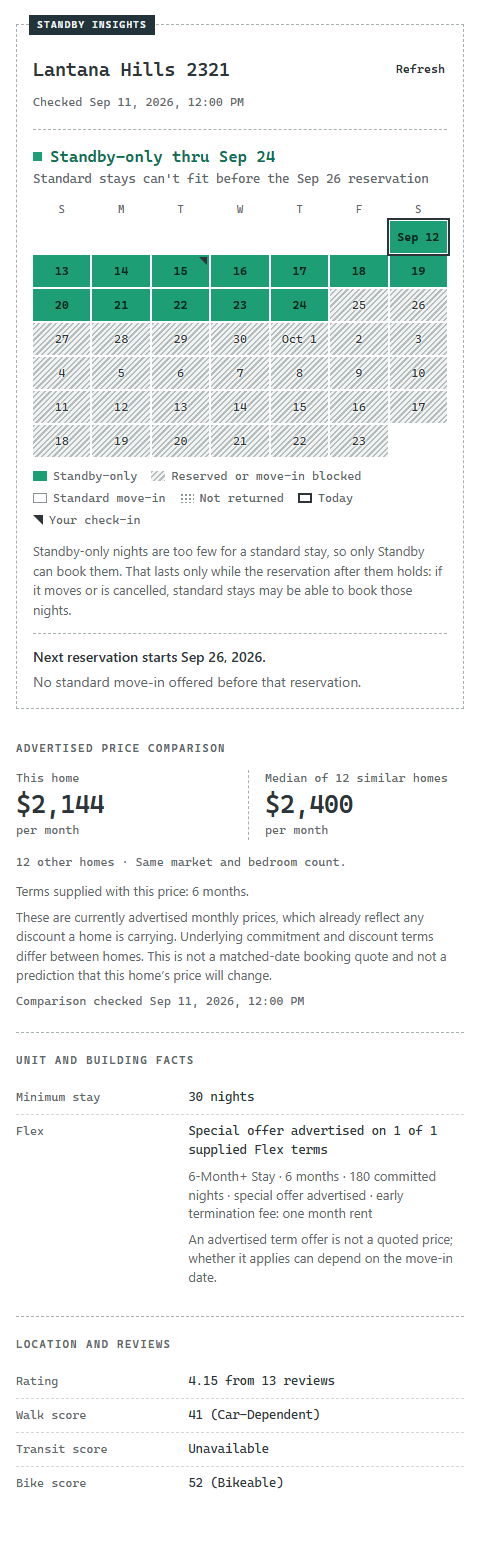
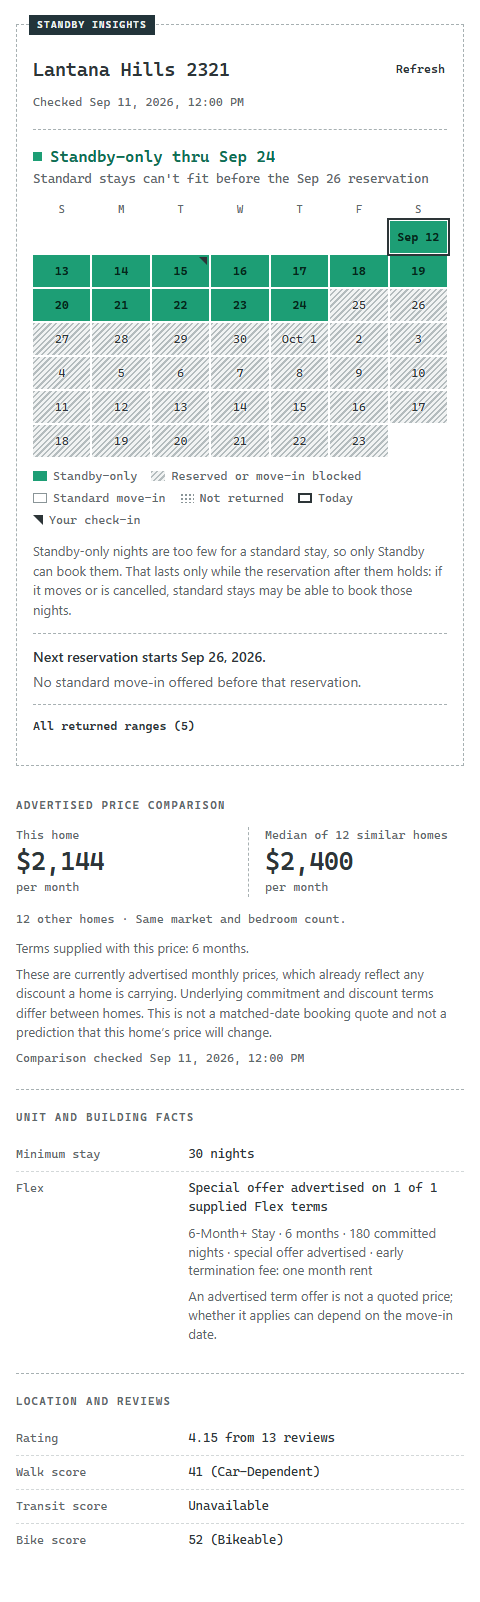
Restore every returned range and fix thin panel failure states
- Collapsed "All returned ranges (N)" list reaches ranges past six weeks
- Header states failed or unconfirmed checks instead of "Not checked yet"
- Calendar section hidden when empty; loading says the calendar is checking
- "Calendar unavailable" names Refresh as the next step
- Price disclosure only beside shown prices
- Refresh outcome announced only after a member-initiated Refresh

Closes #26

diff --git a/test/panel-render.test.js b/test/panel-render.test.js
@@ -18,9 +18,56 @@ test('mismatched or ambiguous identity attaches no unit-specific claim, includin
   }
 });
 
-test('unavailable calendar: labeled unavailable, not an empty result', () => {
+test('unavailable calendar: labeled unavailable, not an empty result, with Refresh as the next step', () => {
   const view = describeState({ status: 'unavailable', identity: 'confirmed', unitName: null, ranges: null, checkedAt: 1000, isChecking: false, isStale: false, error: null });
-  assert.equal(view.calendarStatusText, 'Calendar unavailable');
+  assert.match(view.calendarStatusText, /^Calendar unavailable\. .*Refresh/);
+  assert.equal(view.calendarVisible, true);
+});
+
+test('a failed first check says it failed, not that nothing was checked', () => {
+  const view = describeState({ status: 'unavailable', identity: null, unitName: null, ranges: null, checkedAt: null, isChecking: false, isStale: false, error: 'GateTimeoutError' });
+  assert.doesNotMatch(view.checkTimeText, /not checked yet/i);
+  assert.match(view.checkTimeText, /failed/i);
+});
+
+test('a mismatched check says the unit could not be confirmed, and renders no calendar section', () => {
+  for (const checkedAt of [null, 1000]) {
+    const view = describeState({ status: 'mismatch', identity: 'mismatch', unitName: null, ranges: null, checkedAt, isChecking: false, isStale: false, error: null });
+    assert.doesNotMatch(view.checkTimeText, /not checked yet/i);
+    assert.equal(view.calendarVisible, false);
+  }
+});
+
+test('loading says the calendar is being checked', () => {
+  const view = describeState({ status: 'idle', identity: null, unitName: null, ranges: null, checkedAt: null, isChecking: true, isStale: false, error: null });
+  assert.match(view.calendarStatusText, /checking the calendar/i);
+  assert.equal(view.calendarVisible, true);
+  assert.equal(describeState({ status: 'idle', checkedAt: null }).calendarVisible, false, 'no calendar section before any check');
+});
+
+test('every returned range is listed chronologically with full dates and status words, including past the six weeks', () => {
+  const view = describeState({
+    status: 'ready', identity: 'confirmed', checkedAt: 1000, today: '2026-09-12', referenceDate: '2026-09-12', checkIn: { status: 'none', date: null },
+    ranges: [
+      { startDate: '2027-01-10', endDate: null, moveInAllowed: true, isReservation: false, unbookableReason: null },
+      { startDate: '2026-09-12', endDate: '2026-09-24', moveInAllowed: false, isReservation: false, unbookableReason: 'less_than_minimum_nightly_stay' },
+      { startDate: '2026-09-25', endDate: '2027-01-09', moveInAllowed: false, isReservation: true, unbookableReason: 'reserved' },
+    ],
+  });
+  assert.deepEqual(view.allRanges, [
+    'Sep 12, 2026 – Sep 24, 2026: Standby-only: too short for a standard stay',
+    'Sep 25, 2026 – Jan 9, 2027: Reservation',
+    'Jan 10, 2027 – unspecified end: Move-in allowed',
+  ]);
+  assert.deepEqual(describeState({ status: 'unavailable', checkedAt: 1000 }).allRanges, []);
+});
+
+test('the price disclosure shows only beside shown prices', () => {
+  const comparison = { status: 'ready', median: 2400, count: 12, checkedAt: 1000, subjectPrice: { amount: 2144, label: 'per month', terms: [], note: null } };
+  assert.match(describeState({ checkedAt: null, comparison }).comparison.disclosure, /not a prediction/);
+  for (const status of ['unavailable', 'insufficient']) {
+    assert.equal(describeState({ checkedAt: null, comparison: { ...comparison, status } }).comparison.disclosure, '');
+  }
 });
 
 test('ready calendar: each grid day names its whole returned range on hover, including an unspecified end', () => {
@@ -147,7 +194,7 @@ test('an unusable calendar still shows the facts from the same response', () => 
     minimumStay: 30, flexOptions: null, rating: { average: 4.8, count: 6 },
     scores: { walk: null, transit: null, bike: null },
   }, { status: 'unavailable', ranges: null }));
-  assert.equal(view.calendarStatusText, 'Calendar unavailable');
+  assert.match(view.calendarStatusText, /^Calendar unavailable/);
   assert.match(factText(view, 'Minimum stay'), /30 nights/);
   assert.match(factText(view, 'Rating'), /4\.8/);
 });

diff --git a/src/panel/panel.js b/src/panel/panel.js
@@ -25,9 +25,15 @@ const standbyOnlyHeadline = document.getElementById('standby-only-headline');
 const standbyOnlyDetail = document.getElementById('standby-only-detail');
 const standbyOnlyExplainer = document.getElementById('standby-only-explainer');
 const calendarGrid = document.getElementById('calendar-grid');
+const calendarSection = document.getElementById('calendar-section');
+const allRanges = document.getElementById('all-ranges');
+const allRangesSummary = document.getElementById('all-ranges-summary');
+const allRangesList = document.getElementById('all-ranges-list');
 
 let tabId = null;
-let lastCheckedAt = null;
+// 'requested' after the member presses Refresh, 'checking' once that check
+// starts; only its completion is announced, never the panel's first state.
+let refresh = null;
 
 function factRow(item) {
   const row = document.createElement('div');
@@ -48,6 +54,15 @@ function render(state) {
   identityNote.textContent = view.identityNote;
   checkTime.textContent = view.refreshFailedNote ? `${view.checkTimeText}. ${view.refreshFailedNote}` : view.checkTimeText;
   calendarStatus.textContent = view.calendarStatusText;
+  calendarSection.hidden = !view.calendarVisible;
+
+  allRanges.hidden = view.allRanges.length === 0;
+  allRangesSummary.textContent = `All returned ranges (${view.allRanges.length})`;
+  allRangesList.replaceChildren(...view.allRanges.map((text) => {
+    const li = document.createElement('li');
+    li.textContent = text;
+    return li;
+  }));
 
   sixWeeks.hidden = view.grid === null;
   if (view.grid) {
@@ -105,9 +120,10 @@ function render(state) {
   factsList.replaceChildren(...view.factItems.slice(0, 2).map(factRow));
   locationList.replaceChildren(...view.factItems.slice(2).map(factRow));
 
-  if (state.checkedAt !== null && state.checkedAt !== lastCheckedAt && !state.isChecking) {
-    lastCheckedAt = state.checkedAt;
-    announcer.textContent = 'Refresh complete.';
+  if (state.isChecking && refresh === 'requested') refresh = 'checking';
+  if (!state.isChecking && refresh === 'checking') {
+    refresh = null;
+    announcer.textContent = state.error ? 'Refresh failed.' : 'Refresh complete.';
   }
 }
 
@@ -121,7 +137,10 @@ chrome.runtime.onMessage.addListener((message, sender) => {
 });
 
 refreshButton.addEventListener('click', () => {
-  if (tabId !== null) chrome.tabs.sendMessage(tabId, { type: 'request-refresh' });
+  if (tabId === null) return;
+  refresh = 'requested';
+  announcer.textContent = '';
+  chrome.tabs.sendMessage(tabId, { type: 'request-refresh' });
 });
 
 chrome.tabs.query({ active: true, currentWindow: true }).then(([tab]) => {

diff --git a/src/panel/render.js b/src/panel/render.js
@@ -169,7 +169,8 @@ function comparisonView(state) {
   view.termsNote = [termsText(comparison.subjectPrice), comparison.subjectPrice?.note]
     .filter((line) => line)
     .join(' ');
-  view.disclosure = COMPARISON_DISCLOSURE;
+  // The disclosure qualifies price figures, so it appears only beside them.
+  view.disclosure = view.prices.length > 0 ? COMPARISON_DISCLOSURE : '';
 
   if (comparison.checkedAt !== null) {
     view.checkTimeText = `Comparison checked ${timeFormatter.format(new Date(comparison.checkedAt))}`;
@@ -266,9 +267,11 @@ export function describeState(state) {
     identityNote: '',
     checkTimeText: 'Not checked yet',
     calendarStatusText: '',
+    calendarVisible: false,
     referenceNote: '',
     standbyOnly: null,
     grid: null,
+    allRanges: [],
     summaryItems: [],
     factItems: [],
     refreshFailedNote: null,
@@ -280,10 +283,19 @@ export function describeState(state) {
   }
 
   if (state.status === 'unavailable') {
-    view.calendarStatusText = 'Calendar unavailable';
+    view.calendarStatusText = state.isChecking
+      ? 'Calendar unavailable. Checking again…'
+      : 'Calendar unavailable. Use Refresh to check again.';
+  } else if (state.isChecking && !Array.isArray(state.ranges)) {
+    view.calendarStatusText = 'Checking the calendar…';
   }
 
   if (state.status === 'ready' && Array.isArray(state.ranges)) {
+    // The grid stops at six weeks; this list is where every returned range,
+    // and each day's detail, stays reachable by keyboard and screen reader.
+    view.allRanges = [...state.ranges]
+      .sort((a, b) => a.startDate.localeCompare(b.startDate))
+      .map(rangeText);
     view.referenceNote = referenceNoteText(state);
     if (state.summary) view.summaryItems = summaryItemsFor(state.summary);
     if (state.today && state.referenceDate) {
@@ -303,11 +315,18 @@ export function describeState(state) {
     if (state.isStale) view.checkTimeText += ' (showing an older check)';
   } else if (state.isChecking) {
     view.checkTimeText = 'Checking…';
+  } else if (state.error) {
+    view.checkTimeText = 'Check failed';
+  } else if (view.identityNote) {
+    view.checkTimeText = 'Checked, but this unit could not be confirmed';
   }
 
   if (state.isStale && state.error) {
     view.refreshFailedNote = 'The last refresh failed; showing the previous check.';
   }
+
+  view.calendarVisible = Boolean(view.calendarStatusText || view.referenceNote || view.grid
+    || view.summaryItems.length || view.allRanges.length);
 
   return view;
 }

diff --git a/src/panel/panel.css b/src/panel/panel.css
@@ -76,8 +76,6 @@ h1 { font: 600 19px/1.3 var(--mono); letter-spacing: -.01em; overflow-wrap: brea
 
 section { padding: 20px 0 22px; border-top: 1px dashed var(--outline); }
 .note section { margin-top: 16px; padding: 16px 0 0; }
-/* With its heading hidden, a calendar section with nothing to show draws no empty ruled band. */
-.note #calendar-section:not(:has(#calendar-status:not(:empty), #reference-note:not(:empty), #six-weeks:not([hidden]), #calendar-summary:not([hidden]))) { margin-top: 0; padding-top: 0; border-top: 0; }
 .note + section { margin-top: 12px; border-top: 0; }
 h2 {
   margin-bottom: 12px;
@@ -136,6 +134,20 @@ h2 {
 .summary { margin-top: 14px; padding-top: 12px; border-top: 1px dashed var(--outline); }
 #summary-list li:first-child { font-weight: 600; }
 #summary-list li + li { margin-top: 4px; color: var(--on-2); }
+
+/* Every returned range, past the grid's six weeks: a typed instruction that opens a ledger. */
+#all-ranges { margin-top: 12px; border-top: 1px dashed var(--outline); }
+#all-ranges summary {
+  display: flex;
+  align-items: center;
+  min-height: 44px;
+  color: var(--on);
+  font: 500 12px/1.3 var(--mono);
+  cursor: pointer;
+}#all-ranges summary:hover { text-decoration: underline; text-underline-offset: 3px; }
+#all-ranges summary:focus-visible { outline: 2px solid var(--on); outline-offset: 2px; }
+#all-ranges-list { margin: 0; padding: 0; list-style: none; font: 12px/1.5 var(--mono); }
+#all-ranges-list li { padding: 6px 0; border-top: 1px dashed #d3d8d9; }
 
 #comparison-prices { display: grid; grid-template-columns: repeat(2, minmax(0, 1fr)); gap: 16px; margin-bottom: 14px; }
 #comparison-prices > div { min-width: 0; }

diff --git a/test/check-in-summary.test.js b/test/check-in-summary.test.js
@@ -90,7 +90,7 @@ test('a no-reservation calendar describes the returned calendar and its finite c
 
 test('an unavailable calendar states no summary conclusions at all', async () => {
   const { view } = await loadedPanel(emptyRangesHome, { status: 'selected', date: '2026-09-15' });
-  assert.equal(view().calendarStatusText, 'Calendar unavailable');
+  assert.match(view().calendarStatusText, /^Calendar unavailable\./);
   assert.equal(view().summaryItems.length, 0);
 });
 
@@ -177,7 +177,7 @@ test('invalid, missing, and contradictory calendars state no conclusions a membe
   ];
   for (const home of invalidHomes) {
     const { view } = await loadedPanel(home, { status: 'selected', date: '2026-09-15' });
-    assert.equal(view().calendarStatusText, 'Calendar unavailable', home.slug);
+    assert.match(view().calendarStatusText, /^Calendar unavailable\./, home.slug);
     assert.equal(view().summaryItems.length, 0, home.slug);
     assert.equal(view().referenceNote, '', home.slug);
     assert.equal(view().grid, null, home.slug);

diff --git a/src/panel/panel.html b/src/panel/panel.html
@@ -17,7 +17,7 @@
         <p id="identity-note" role="status"></p>
       </header>
 
-      <section id="calendar-section" aria-labelledby="calendar-heading">
+      <section id="calendar-section" aria-labelledby="calendar-heading" hidden>
         <h2 id="calendar-heading">Calendar</h2>
         <p id="calendar-status" role="status"></p>
         <p id="reference-note"></p>
@@ -39,6 +39,10 @@
         <div id="calendar-summary" class="summary" hidden>
           <ul id="summary-list"></ul>
         </div>
+        <details id="all-ranges" hidden>
+          <summary id="all-ranges-summary">All returned ranges</summary>
+          <ol id="all-ranges-list"></ol>
+        </details>
       </section>
     </div>
 

diff --git a/test/comparison-lifecycle.test.js b/test/comparison-lifecycle.test.js
@@ -353,7 +353,7 @@ test('the comparison shows while the calendar is unusable, and loading while it 
   await tick();
   await tick();
   const view = h.view();
-  assert.equal(view.calendarStatusText, 'Calendar unavailable');
+  assert.match(view.calendarStatusText, /^Calendar unavailable\./);
   assert.match(view.comparison.statusText, /Median advertised monthly price/);
 });
 

diff --git a/DESIGN.md b/DESIGN.md
@@ -185,7 +185,7 @@ Card annotations run one step smaller: 11.5px mono body, 12px headline, 11px act
 
 A single column, max 720px, centered, padded 24px vertical and 16px horizontal. The note sits first with 22px top padding (room under the tab) and 16px sides and bottom. Inside the note, the unit header is a two-column grid (name, then Refresh pinned right at auto width) with check time and identity note spanning both columns.
 
-Sections outside the note are separated by a 1px dashed top rule with 20px above content and 22px below; the first section after the note sits 12px down with no rule, since the note's own outline already separates it. Inside the note the calendar section takes a dashed rule with 16px margin and padding. The calendar heading is visually hidden (it remains the section's accessible name); the standby-only headline leads. When the calendar section has nothing to show (empty status, empty reference note, hidden grid and summary), `:has()` removes its rule, margin and padding so no empty ruled band appears.
+Sections outside the note are separated by a 1px dashed top rule with 20px above content and 22px below; the first section after the note sits 12px down with no rule, since the note's own outline already separates it. Inside the note the calendar section takes a dashed rule with 16px margin and padding. The calendar heading is visually hidden (it remains the section's accessible name); the standby-only headline leads. When the calendar section has nothing to show (before any check, or when identity is unconfirmed), the section is hidden outright so neither an empty ruled band nor an empty "Calendar" landmark appears.
 
 The six-week grid is 7 equal columns with 2px gaps, 32px minimum cell height, weekday initials 14px above it. Prices sit in two equal columns with 16px gap and a dashed vertical rule between them. Facts are label/value rows at a 1 : 1.6 ratio with 7px vertical padding and a light dashed divider.
 
@@ -231,6 +231,9 @@ The attribution in words. A dark slate block reading "Standby Insights", upperca
 
 ### Six-Week Grid (signature)
 Seven columns of 32px day cells with 12px mono numerals. Standby-only days are green fills with bold near-black numerals; reserved and blocked days are hatched; standard move-in days carry a 1px inset outline; not-returned days are dotted (4px dot pitch). Today gets a 2px graphite outline; the member's check-in gets a graphite corner triangle. The grid opts out of forced-color adjustment so textures survive. A legend below repeats every mark with a 14 x 10px key and a mono label.
+
+### All Returned Ranges
+A native `<details>`, collapsed, closing the calendar section under a dashed rule. The summary reads "All returned ranges (N)" as a borderless mono text action (12px, 500, 44px target, hover underline, 2px focus outline) with no disclosure marker. Open, it lists every returned range chronologically in 12px mono, one per row on a light dashed divider, with full dates and status words. It is the keyboard and screen-reader path to ranges past the six-week grid and to the per-day detail the grid only offers on hover.
 
 ### Standby Strip (card)
 The grid condensed to a 10px horizontal bar of flex segments using the same state marks (dots at 3px pitch), with white week dividers every sixth, a 1.5px graphite today edge, and a downward graphite triangle for check-in.
